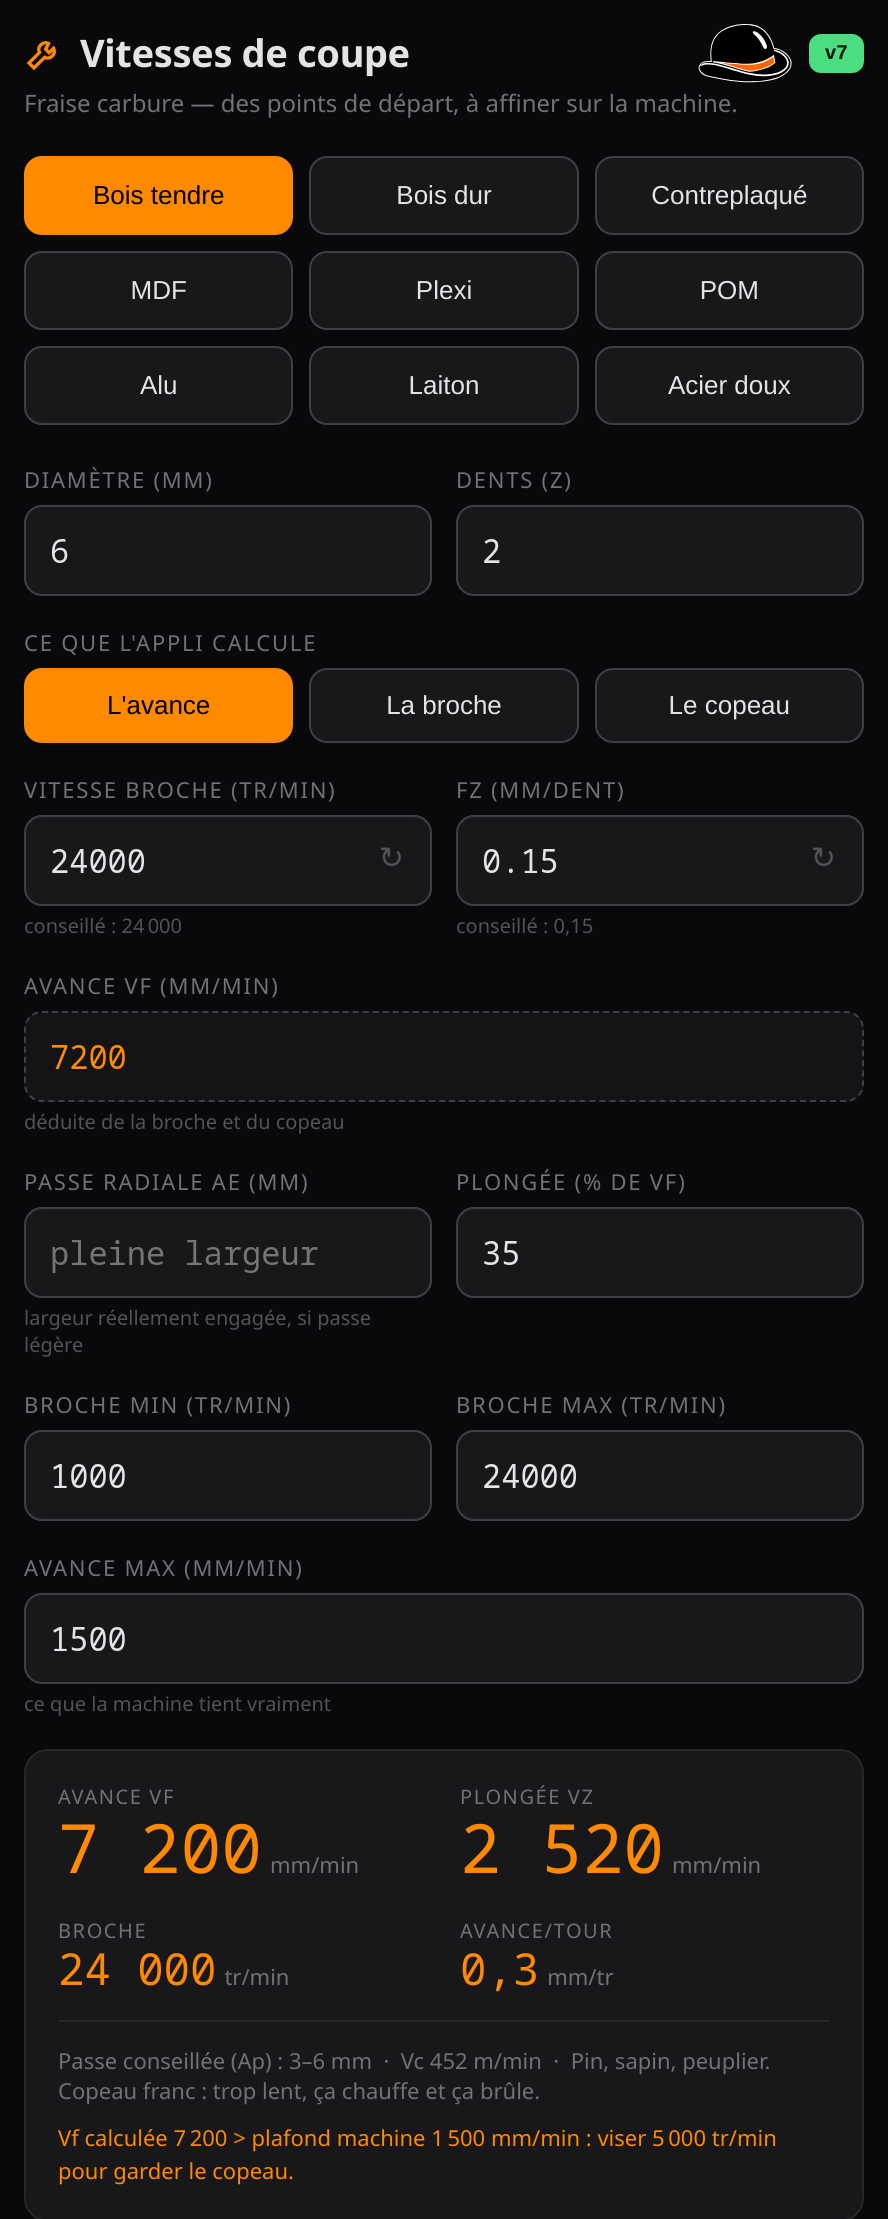
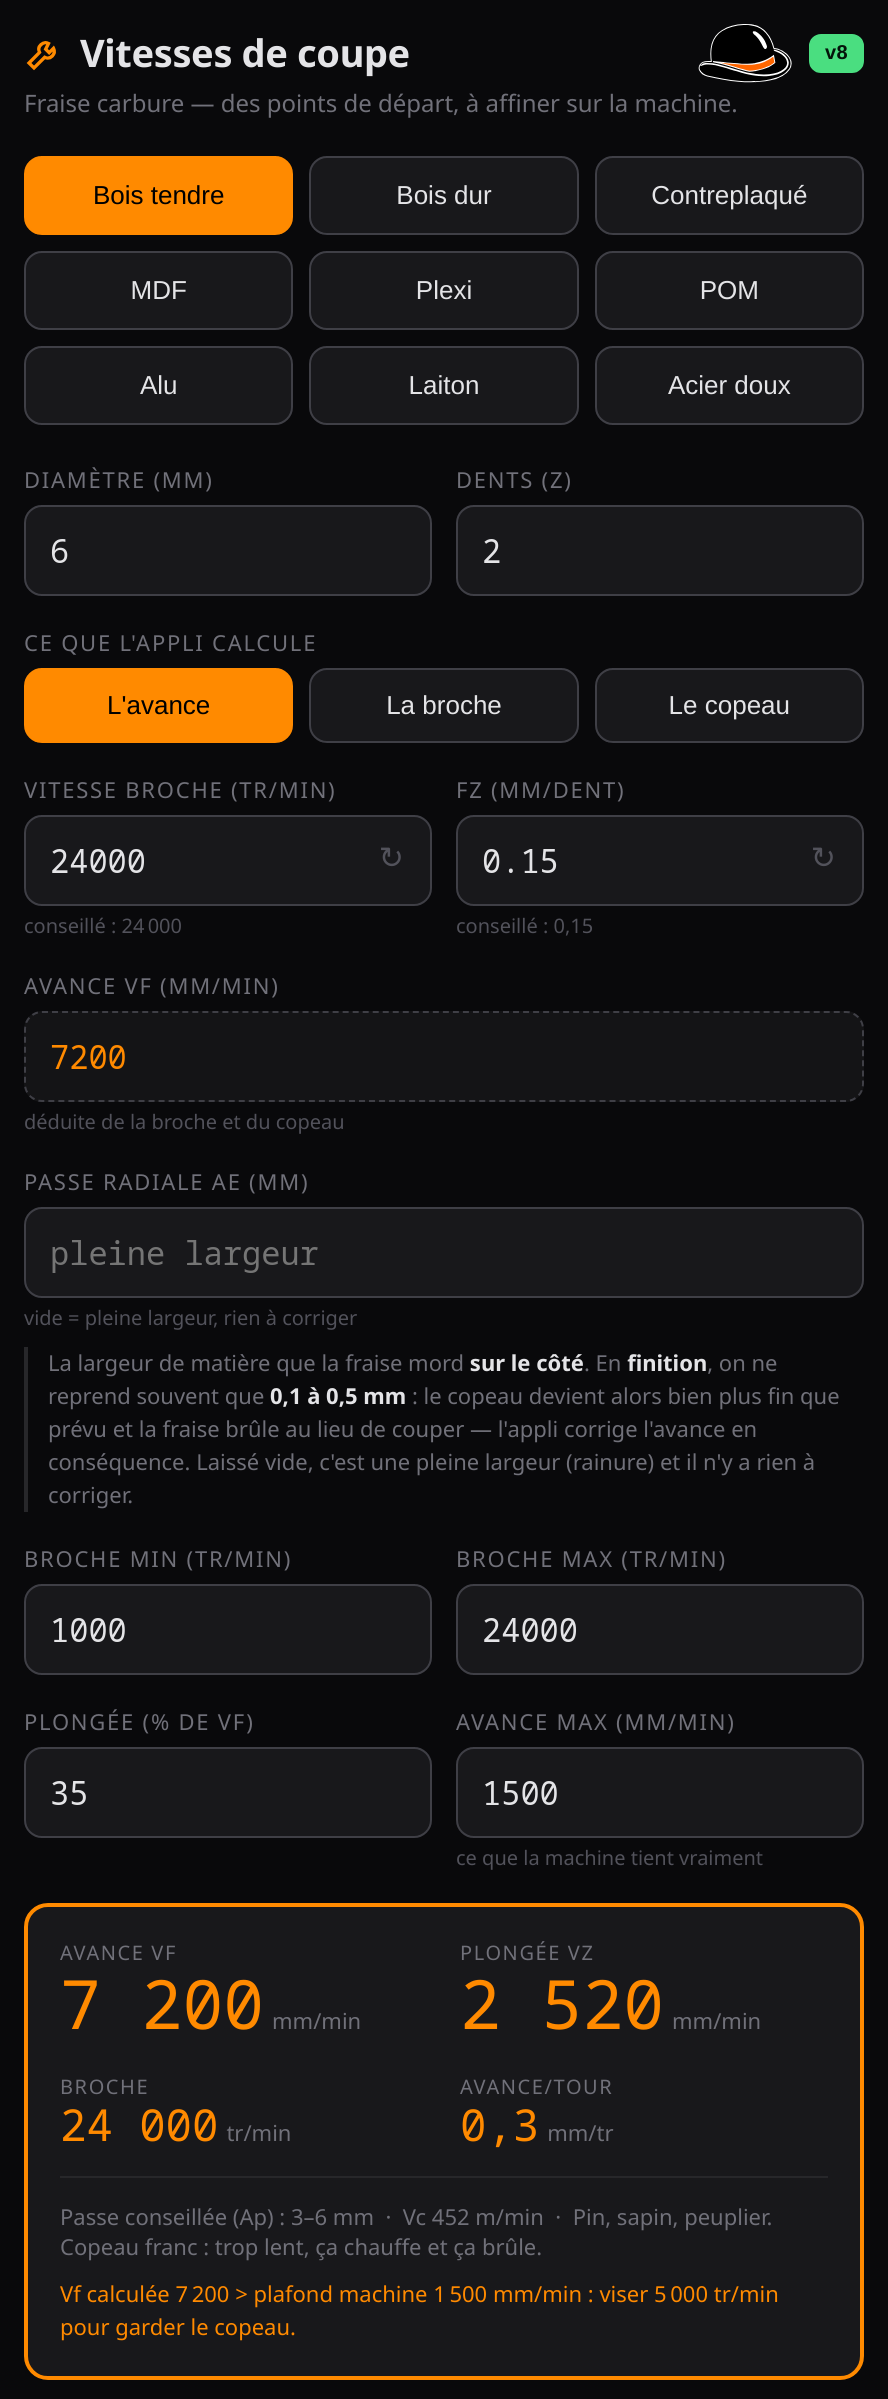
Les resultats dans un cadre orange, et la passe radiale expliquee
Le cadre orange distingue enfin la carte des resultats des champs de
saisie : c'est ce qu'on vient chercher, ca doit se voir.

La passe radiale passe en pleine largeur avec son explication : c'est la
largeur mordue SUR LE COTE, typiquement 0,1 a 0,5 mm en finition, et vide
= pleine largeur. Le rappel dit aussi quand le facteur devient si fort
que la machine plafonnera de toute facon.

CORRECTION trouvee au test : la broche suggeree par l'alerte de plafond
ignorait l'amincissement (vfMax / (fz x z) au lieu de fz x k x z). Deux
amincissements differents proposaient donc la MEME broche — impossible,
et c'est ce qui a trahi la faute. Idem pour le nombre de dents tenable.
Verifie contre un calcul independant : 1 280 / 1 795 / 2 763 / 3 726
tr/min pour ae = 0,1 / 0,2 / 0,5 / 1 mm.

Cache porte a coupe-v8.

diff --git a/site/appli/coupe/index.html b/site/appli/coupe/index.html
@@ -61,7 +61,13 @@
   .reset{position:absolute; right:8px; top:9px; background:none; border:none; color:var(--dim2); font-size:15px; padding:4px 6px;}
   .reset:active{color:var(--orange);}
   .hint{font-size:10px; color:var(--dim2); margin-top:3px; display:block;}
-  .card{background:var(--panel); border:1px solid var(--panel2); border-radius:12px; padding:16px; margin-bottom:8px;}
+  /* Explication d'un reglage qui ne se devine pas — plus longue qu'un hint. */
+  .aide{font-size:11px; color:var(--dim); line-height:1.5; margin:8px 0 0;
+        padding-left:10px; border-left:2px solid var(--panel2);}
+  .aide b{color:var(--txt);}
+  /* La carte des resultats est CE QU'ON VIENT CHERCHER : elle porte le
+     cadre orange de la maison pour se distinguer des champs de saisie. */
+  .card{background:var(--panel); border:2px solid var(--orange); border-radius:12px; padding:16px; margin-bottom:8px;}
   .outs{display:grid; grid-template-columns:1fr 1fr; gap:16px 16px;}
   .ro .k{font-size:10px; text-transform:uppercase; letter-spacing:.08em; color:var(--dim);}
   .ro .v{font-family:ui-monospace,Menlo,monospace; color:var(--orange); line-height:1.1;}
@@ -145,23 +151,30 @@
     <span class="hint" id="hintVf"></span>
   </div>
 
-  <div class="grid2">
-    <div>
-      <label class="lbl" for="ae">Passe radiale ae (mm)</label>
-      <input id="ae" inputmode="decimal" value="" placeholder="pleine largeur">
-      <span class="hint" id="hintAe"></span>
-    </div>
-    <div><label class="lbl" for="plunge">Plongée (% de Vf)</label><input id="plunge" inputmode="decimal" value="35"></div>
+  <div class="pleine">
+    <label class="lbl" for="ae">Passe radiale ae (mm)</label>
+    <input id="ae" inputmode="decimal" value="" placeholder="pleine largeur">
+    <span class="hint" id="hintAe"></span>
+    <p class="aide">
+      La largeur de matière que la fraise mord <b>sur le côté</b>. En
+      <b>finition</b>, on ne reprend souvent que <b>0,1 à 0,5 mm</b> : le copeau
+      devient alors bien plus fin que prévu et la fraise brûle au lieu de couper
+      — l'appli corrige l'avance en conséquence. Laissé vide, c'est une pleine
+      largeur (rainure) et il n'y a rien à corriger.
+    </p>
   </div>
 
   <div class="grid2">
     <div><label class="lbl" for="rpmMin">Broche min (tr/min)</label><input id="rpmMin" inputmode="decimal" value="1000"></div>
     <div><label class="lbl" for="rpmMax">Broche max (tr/min)</label><input id="rpmMax" inputmode="decimal" value="24000"></div>
   </div>
-  <div class="pleine">
-    <label class="lbl" for="vfMax">Avance max (mm/min)</label>
-    <input id="vfMax" inputmode="decimal" value="1500" placeholder="sans limite">
-    <span class="hint">ce que la machine tient vraiment</span>
+  <div class="grid2">
+    <div><label class="lbl" for="plunge">Plongée (% de Vf)</label><input id="plunge" inputmode="decimal" value="35"></div>
+    <div>
+      <label class="lbl" for="vfMax">Avance max (mm/min)</label>
+      <input id="vfMax" inputmode="decimal" value="1500" placeholder="sans limite">
+      <span class="hint">ce que la machine tient vraiment</span>
+    </div>
   </div>
 
   <div class="card">
@@ -433,8 +446,11 @@ function compute(){
   // Le « +0.5 » n'est pas une coquetterie : sans lui, une avance calculée à
   // 1 500,05 mm/min contre un plafond réglé à 1 500 alerte pour un
   // vingtième de millimètre par minute.
+  // Tous les calculs ci-dessous passent par `fz*k` — le copeau REELLEMENT
+  // programme. Avec fz seul, deux amincissements differents proposaient la
+  // meme broche, ce qui est impossible : c'est ce qui a trahi la faute.
   if(vfMax>0 && vf>vfMax+0.5 && fz>0 && z>0){
-    var rSugg=Math.floor(vfMax/(fz*z));
+    var rSugg=Math.floor(vfMax/(fz*k*z));
     if(rSugg>=lo){
       alertes.push("Vf calculée "+fr(rnd(vf))+" &gt; plafond machine "+fr(vfMax)+" mm/min : viser "+fr(clamp(rSugg,lo,hi))+" tr/min pour garder le copeau.");
     } else {
@@ -444,11 +460,11 @@ function compute(){
       // C'est la raison d'etre des fraises 1 dent en bois et en plastique
       // sur les petites machines : elles ne sont pas un compromis, elles
       // sont l'outil des avances lentes.
-      var zMax=Math.floor(vfMax/(lo*fz));
+      var zMax=Math.floor(vfMax/(lo*fz*k));
       if(zMax>=1 && zMax<z){
         alertes.push("Vf calculée "+fr(rnd(vf))+" &gt; plafond "+fr(vfMax)+" mm/min, et même à "
           +fr(lo)+" tr/min une fraise "+z+" dents va trop vite. Une fraise <b>"+zMax+" dent"
-          +(zMax>1?"s":"")+"</b> donnerait "+fr(rnd(lo*fz*zMax))+" mm/min à "+fr(lo)
+          +(zMax>1?"s":"")+"</b> donnerait "+fr(rnd(lo*fz*k*zMax))+" mm/min à "+fr(lo)
           +" tr/min : c'est l'outil de cette avance-là.");
       } else {
         alertes.push("Vf calculée "+fr(rnd(vf))+" &gt; plafond "+fr(vfMax)+" mm/min, et même une "
@@ -490,9 +506,10 @@ function compute(){
     : "l'avance que vous visez";
   var ae=num($("ae").value);
   $("hintAe").textContent = (k>1.005)
-    ? "copeau aminci — avance ×"+frd(k,2)
-    : (ae>0 ? "au-delà de la demi-fraise : pas d'amincissement"
-            : "largeur réellement engagée, si passe légère");
+    ? ("copeau aminci — avance ×"+frd(k,2)
+       + (k>2 ? " : très fort, la machine plafonnera avant" : ""))
+    : (ae>0 ? "au-delà de la demi-fraise : plus d'amincissement"
+            : "vide = pleine largeur, rien à corriger");
 }
 
 function currentTool(){

diff --git a/site/appli/coupe/sw.js b/site/appli/coupe/sw.js
@@ -3,7 +3,7 @@
 // (coupe-v2 -> coupe-v3 ...) — sans quoi les visiteurs gardent l'ancienne
 // version, servie par leur propre cache. Le navigateur recompare ce fichier
 // à chaque visite : c'est lui qui déclenche le renouvellement.
-const CACHE = "coupe-v7";
+const CACHE = "coupe-v8";
 const ASSETS = [
   "./",
   "./index.html",

diff --git a/site/outils/capturer_coupe.py b/site/outils/capturer_coupe.py
@@ -34,7 +34,7 @@ LARGEUR = 452        # un peu plus que le .wrap (460 - marges), sans vide latér
 # Jusqu'au bas de la carte des résultats, ALERTE COMPRISE : avec les réglages
 # par défaut (Ø6, plafond 1 500) l'appli avertit que l'avance dépasse ce que
 # la machine tient — c'est le garde-fou qui la distingue, il doit se voir.
-HAUTEUR = 1120
+HAUTEUR = 1210
 
 
 def _rogner_marges(image):
